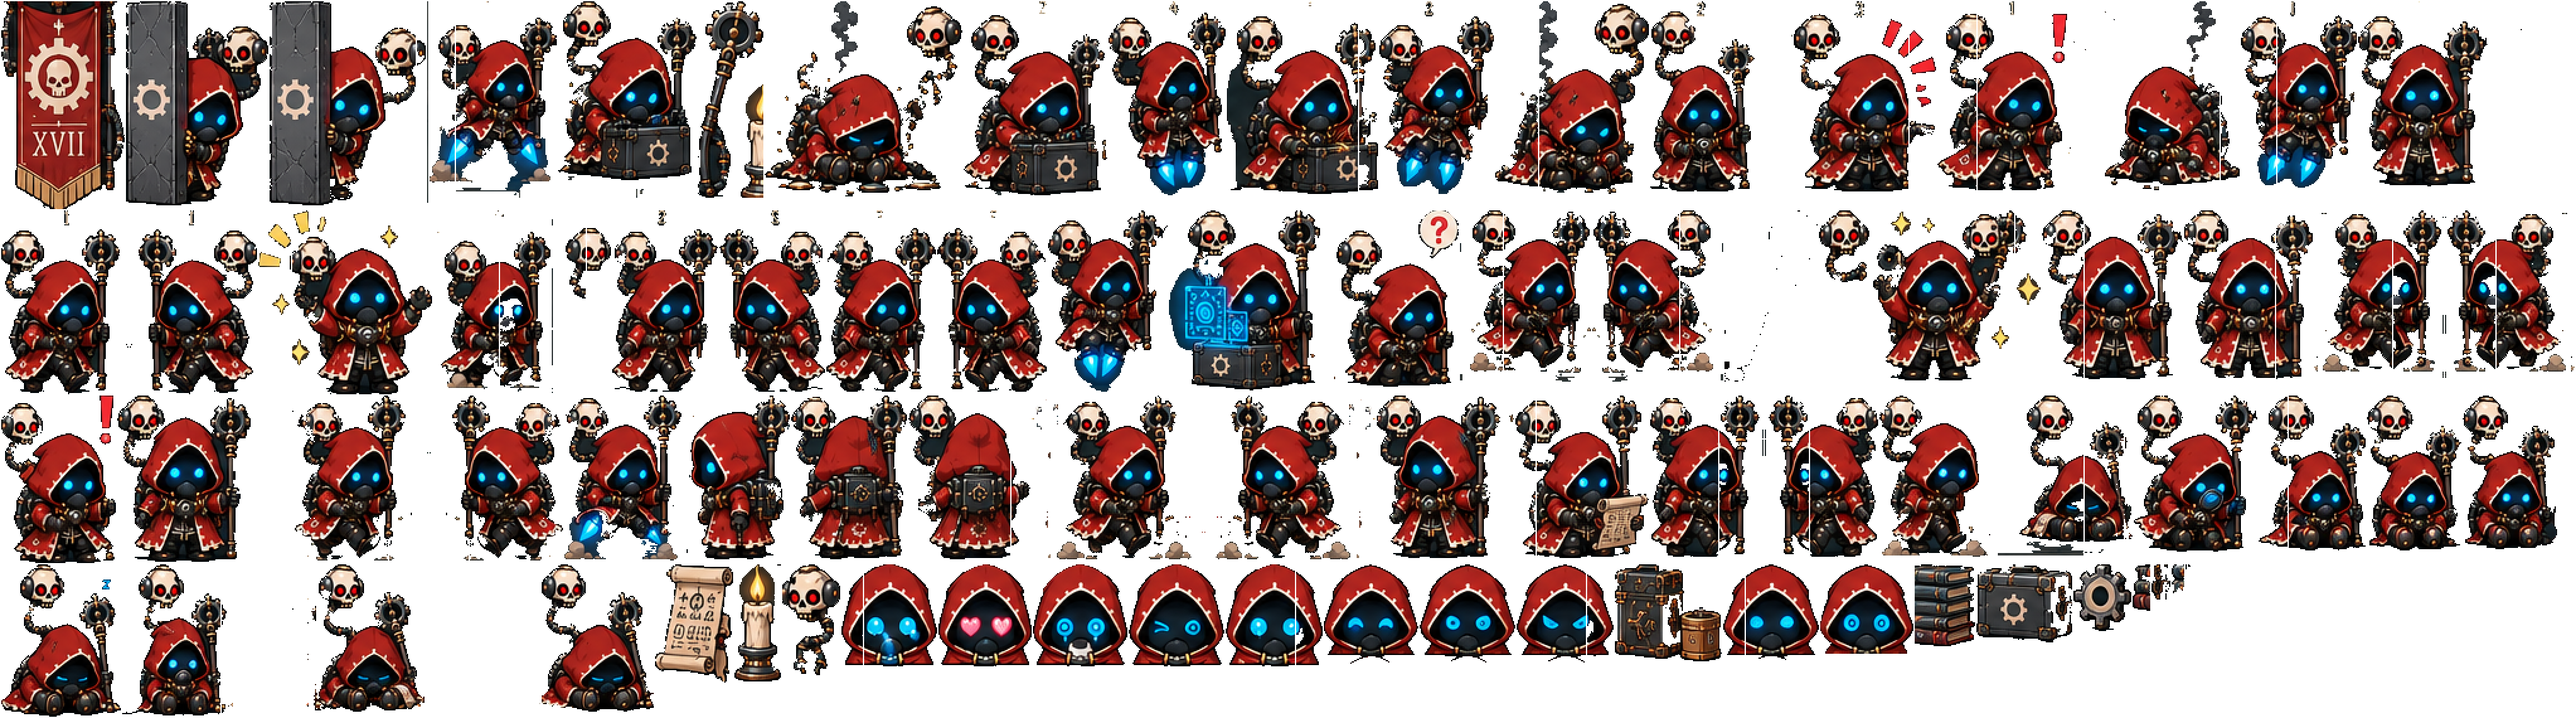
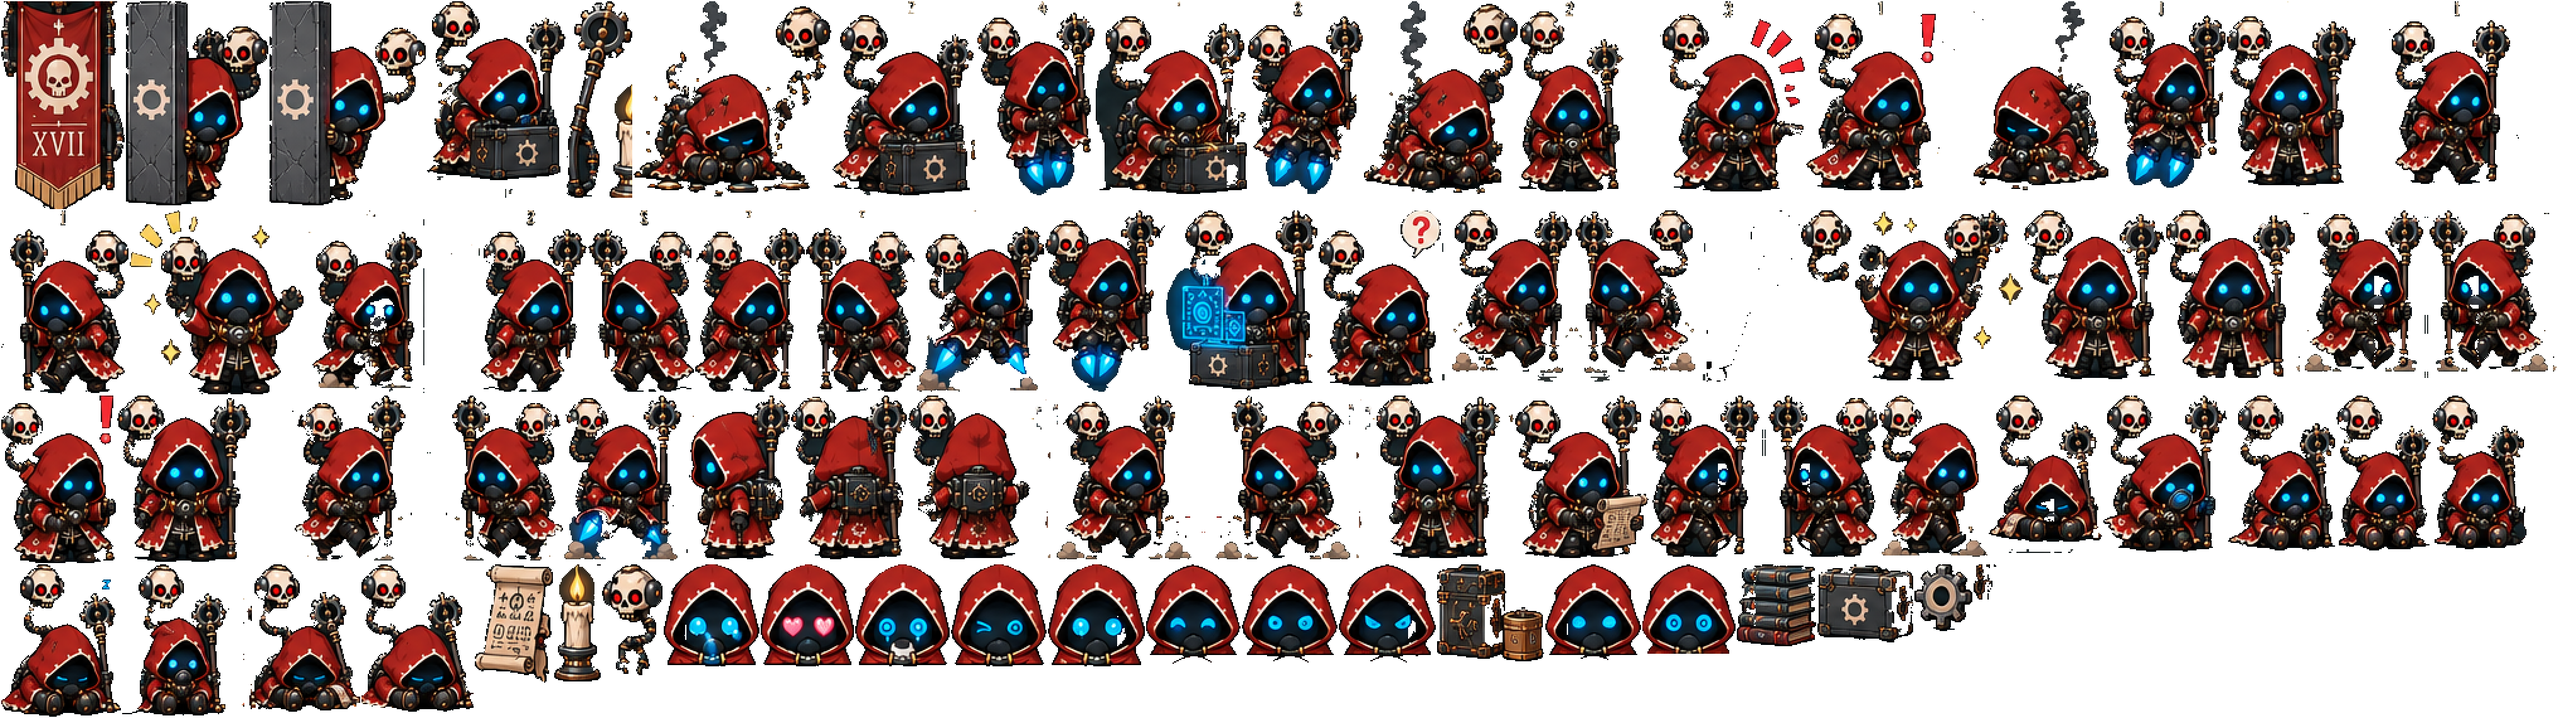
fix: keying margin border only seeds the flood (no seam through neighbors); annotated masks closed and floor-trimmed; each-mode drops hairlines

diff --git a/tools/slice.py b/tools/slice.py
@@ -129,6 +129,9 @@ def group_frames(alpha: np.ndarray, band: dict, scale: float, overrides: dict, *
     if band.get("each"):
         min_px = max(4, int(round(4 * scale * scale)))
         boxes = [b.shifted(x0, y0) for b in components(erased, min_px=min_px)]
+        # Border slivers inside the keying margin are hairlines, not props.
+        boxes = [b for b in boxes if not segment_sam.is_hairline(
+            b.w, b.h, HAIRLINE_MAX_THICKNESS_1X * scale, HAIRLINE_MIN_LENGTH_1X * scale)]
         boxes.sort(key=lambda b: (b.x0, b.y0))
         return [(b, b.cx) for b in boxes]
 
@@ -625,12 +628,16 @@ def _group_frames_annotated(alpha: np.ndarray, band: dict, scale: float, ann_dat
         if fname not in frames_meta:
             raise ValueError(f"band {name}: frame {fname!r} missing from annotations")
         label = frames_meta[fname]["label"]
-        mask = (ann_labels == label) & (alpha > 0)
+        # Close one-pixel seams a saved mask may carry from an earlier keying, then
+        # intersect with the current keyed alpha.
+        mask = ndimage.binary_closing(ann_labels == label, structure=STRUCT8) & (alpha > 0)
         if not mask.any():
             raise ValueError(
                 f"band {name}: frame {fname!r} (label {label}) has an empty mask - "
                 f"nothing in the masks PNG carries this label, or it never overlaps the keyed alpha")
-        obj_masks.append(mask)
+        # Same floor-line trim as sam mode: a hand re-segment can pick up the ground
+        # line under a seated pose just as the automatic one does.
+        obj_masks.append(segment_sam.trim_floor_rows(mask))
 
     cells: list[tuple[float, float, float, float] | None] = [None] * n
     for idx, cell_x0, cell_x1, cell_y0, cell_y1, _is_first, _is_last in segment_sam._cell_layout(band, x0, y0, x1, y1):

diff --git a/tools/test_pipeline.py b/tools/test_pipeline.py
@@ -1098,3 +1098,17 @@ def test_key_background_bands_margin_keeps_figure_parts_above_the_band():
     assert grown[60, 60] == 255                                  # body untouched
     assert grown[40, 30] == 0 and grown[20, 30] == 0             # panel fill and outer margin both keyed
     assert grown[5, 60] == 0                                     # outside the grown rect stays transparent
+
+
+def test_key_background_bands_margin_border_never_cuts_a_neighbor():
+    # Two panels side by side; band A's rectangle grown by the margin ends inside band
+    # B's figure. The grown border must only seed the flood, never force background.
+    im = np.full((80, 200, 3), (10, 10, 10), dtype=np.uint8)
+    im[10:70, 10:90] = (50, 48, 46)          # panel A
+    im[10:70, 100:190] = (50, 48, 46)        # panel B
+    im[20:60, 105:135] = (200, 40, 40)       # figure in B, spanning x 105..134
+    bands = [(10, 10, 90, 70), (100, 10, 190, 70)]
+    alpha = key_background_bands(im, bands, tolerance=16, inset=2, margin=40)
+    # A's grown rect ends at x=130, so its forced border columns 128..129 cross the figure.
+    assert alpha[40, 128] == 255 and alpha[40, 129] == 255 and alpha[40, 120] == 255
+    assert alpha[40, 95] == 0                                   # gap between panels is background

diff --git a/tools/key.py b/tools/key.py
@@ -80,8 +80,11 @@ def key_background_bands(rgb: np.ndarray, bands: list[tuple[int, int, int, int]]
         grown = im[gy0:gy1, gx0:gx1]
         gh, gw = grown.shape[:2]
         near = (np.abs(grown - bg).sum(-1) <= tolerance) | (np.abs(grown - outer_bg).sum(-1) <= tolerance)
-        near[:i, :] = near[gh - i:, :] = near[:, :i] = near[:, gw - i:] = True
-        background = _flood_background(near)
+        # The grown rectangle's border only seeds the flood; with a margin it can run
+        # through a neighboring figure, so it must never be forced into the result.
+        seeded = near.copy()
+        seeded[:i, :] = seeded[gh - i:, :] = seeded[:, :i] = seeded[:, gw - i:] = True
+        background = _flood_background(seeded) & near
         fg = np.where(background, 0, 255).astype(np.uint8)
         region = alpha[gy0:gy1, gx0:gx1]
         was_covered = covered[gy0:gy1, gx0:gx1]
